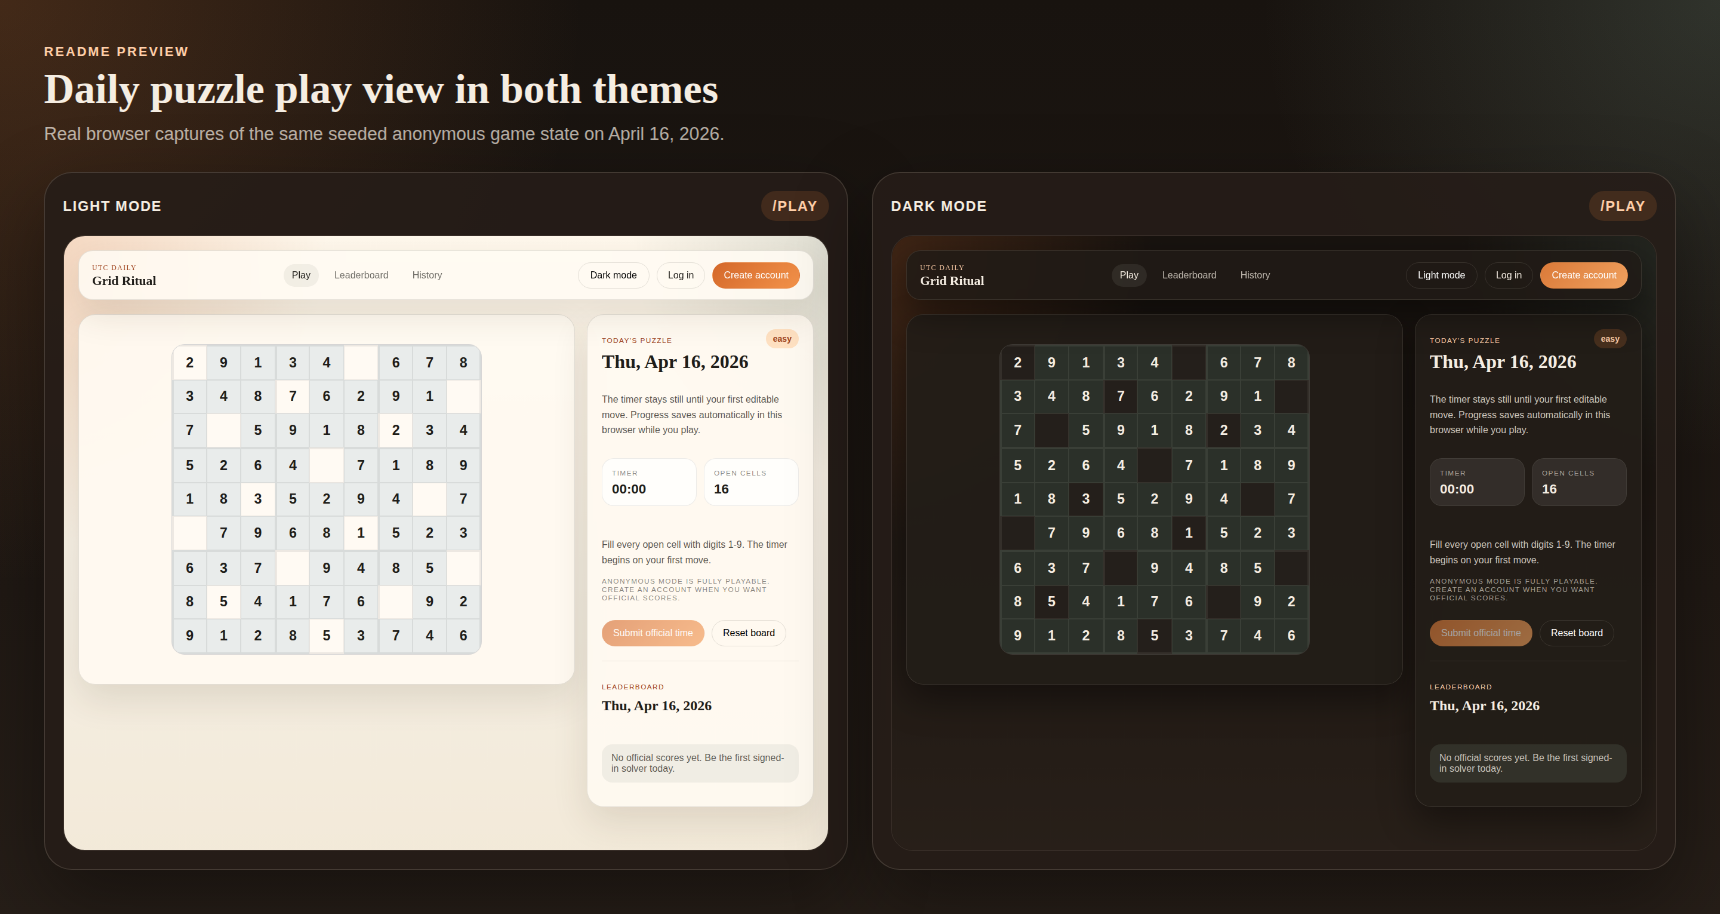
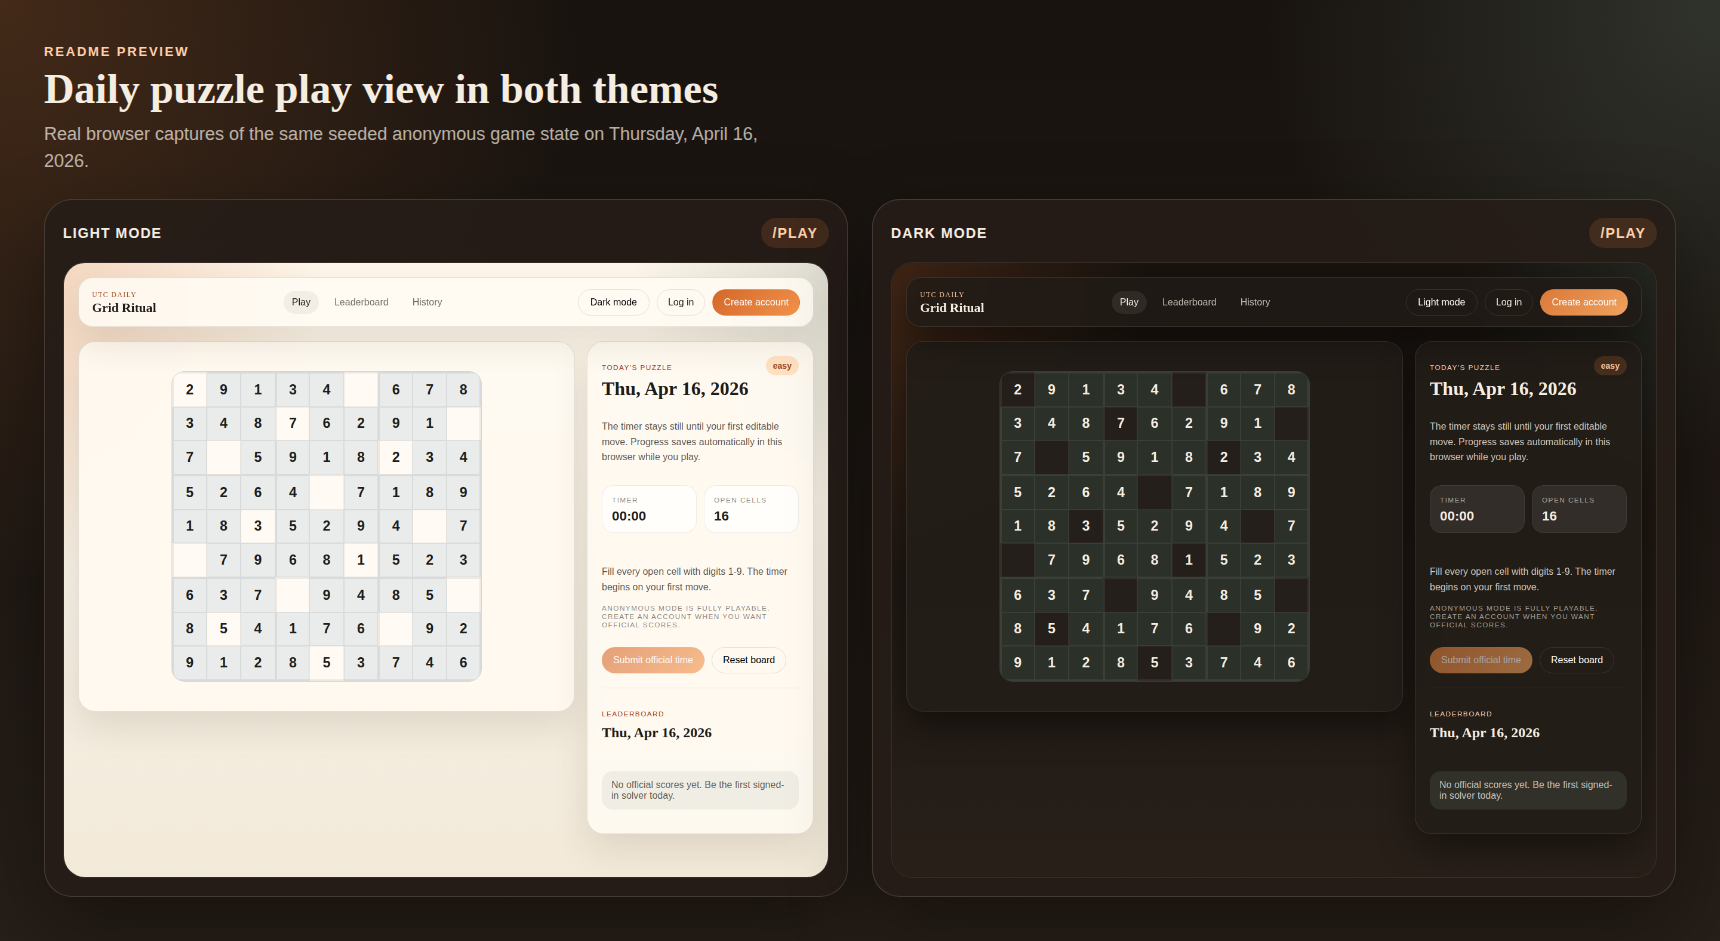
feat: update README screenshot capture script to include dynamic puzzle data and improve progress board handling

diff --git a/scripts/capture-readme-screenshots.ts b/scripts/capture-readme-screenshots.ts
@@ -12,12 +12,8 @@ const npxCommand = process.platform === 'win32' ? 'npx.cmd' : 'npx';
 
 const screenshotDatabaseUrl =
   'postgresql://daily_sudoku:daily_sudoku@127.0.0.1:5433/daily_sudoku?schema=readme_screenshots';
-const fixedUtcDate = '2026-04-16';
+const defaultFixedUtcDate = '2026-04-16';
 const themeStorageKey = 'daily-sudoku/theme';
-const givens = '091340678348062910705918034526407189180529407079680523637094850804176092912803746';
-const solution =
-  '291345678348762915765918234526437189183529467479681523637294851854176392912853746';
-const progressBoard = fillProgressBoard(givens, solution, [0, 12, 24, 38, 50, 64, 76]);
 
 const outputDirectory = path.join(process.cwd(), 'docs/images/readme');
 const playCompareOutputPath = path.join(outputDirectory, 'play-compare.png');
@@ -26,6 +22,7 @@ const landingOutputPath = path.join(outputDirectory, 'landing-light.png');
 async function main(): Promise<void> {
   const children: ChildProcess[] = [];
   const host = process.env.PLAYWRIGHT_HOST ?? '127.0.0.1';
+  const effectiveFixedUtcDate = resolveFixedUtcDate(process.env.FIXED_UTC_DATE);
   const apiPort = await resolvePort(process.env.PLAYWRIGHT_API_PORT, 4000, host);
   const webPort = await resolvePort(
     process.env.PLAYWRIGHT_WEB_PORT,
@@ -46,7 +43,7 @@ async function main(): Promise<void> {
     SESSION_SECRET: process.env.SESSION_SECRET ?? 'readme-screenshot-session-secret-1234',
     SESSION_TTL_DAYS: process.env.SESSION_TTL_DAYS ?? '30',
     RATE_LIMIT_MAX: process.env.RATE_LIMIT_MAX ?? '200',
-    FIXED_UTC_DATE: process.env.FIXED_UTC_DATE ?? fixedUtcDate,
+    FIXED_UTC_DATE: effectiveFixedUtcDate,
     NODE_ENV: 'test',
   };
   const webEnv = {
@@ -70,16 +67,31 @@ async function main(): Promise<void> {
 
     await mkdir(outputDirectory, { recursive: true });
 
+    const puzzle = await loadReadmeCapturePuzzle(effectiveFixedUtcDate);
+    const progressBoard = buildReadmeProgressBoard(puzzle.givens, puzzle.solution);
     const browser = await chromium.launch({ headless: true });
 
     try {
-      const lightPlayCapture = await capturePlayRoute(browser, webBaseUrl, 'light');
-      const darkPlayCapture = await capturePlayRoute(browser, webBaseUrl, 'dark');
+      const lightPlayCapture = await capturePlayRoute(
+        browser,
+        webBaseUrl,
+        'light',
+        puzzle.puzzleDate,
+        progressBoard,
+      );
+      const darkPlayCapture = await capturePlayRoute(
+        browser,
+        webBaseUrl,
+        'dark',
+        puzzle.puzzleDate,
+        progressBoard,
+      );
       const landingCapture = await captureLandingRoute(browser, webBaseUrl);
       const compareCapture = await buildPlayCompareImage(
         browser,
         lightPlayCapture,
         darkPlayCapture,
+        formatFixedUtcDateLabel(puzzle.puzzleDate),
       );
 
       await writeFile(playCompareOutputPath, compareCapture);
@@ -102,6 +114,12 @@ async function main(): Promise<void> {
     }
   }
 }
+
+type ReadmeCapturePuzzle = {
+  puzzleDate: string;
+  givens: string;
+  solution: string;
+};
 
 async function prepareStack(
   apiEnv: NodeJS.ProcessEnv,
@@ -157,6 +175,8 @@ async function capturePlayRoute(
   browser: Browser,
   webBaseUrl: string,
   theme: 'light' | 'dark',
+  puzzleDate: string,
+  progressBoard: string,
 ): Promise<Buffer> {
   return withCapturePage(browser, {
     route: '/play',
@@ -164,8 +184,8 @@ async function capturePlayRoute(
     webBaseUrl,
     initStorage: {
       [themeStorageKey]: theme,
-      [`daily-sudoku/progress/${fixedUtcDate}`]: JSON.stringify({
-        puzzleDate: fixedUtcDate,
+      [`daily-sudoku/progress/${puzzleDate}`]: JSON.stringify({
+        puzzleDate,
         board: progressBoard,
       }),
     },
@@ -236,6 +256,7 @@ async function buildPlayCompareImage(
   browser: Browser,
   lightPlayCapture: Buffer,
   darkPlayCapture: Buffer,
+  fixedUtcDateLabel: string,
 ): Promise<Buffer> {
   const context = await browser.newContext({
     deviceScaleFactor: 1,
@@ -360,7 +381,7 @@ async function buildPlayCompareImage(
                 <p class="eyebrow">README Preview</p>
                 <h1>Daily puzzle play view in both themes</h1>
                 <p class="supporting">
-                  Real browser captures of the same seeded anonymous game state on April 16, 2026.
+                  Real browser captures of the same seeded anonymous game state on ${fixedUtcDateLabel}.
                 </p>
               </header>
               <section class="compare-grid">
@@ -392,6 +413,24 @@ async function buildPlayCompareImage(
   }
 }
 
+function buildReadmeProgressBoard(givens: string, solution: string): string {
+  const preferredIndexes = [0, 12, 24, 38, 50, 64, 76];
+  const editableIndexes = [...givens].flatMap((value, index) => (value === '0' ? [index] : []));
+  const indexesToFill = preferredIndexes.filter((index) => givens[index] === '0');
+
+  for (const index of editableIndexes) {
+    if (indexesToFill.length >= preferredIndexes.length) {
+      break;
+    }
+
+    if (!indexesToFill.includes(index)) {
+      indexesToFill.push(index);
+    }
+  }
+
+  return fillProgressBoard(givens, solution, indexesToFill);
+}
+
 function fillProgressBoard(baseBoard: string, solvedBoard: string, indexes: number[]): string {
   return baseBoard
     .split('')
@@ -403,6 +442,33 @@ function fillProgressBoard(baseBoard: string, solvedBoard: string, indexes: numb
       return solvedBoard[index] ?? value;
     })
     .join('');
+}
+
+function resolveFixedUtcDate(input: string | undefined): string {
+  const normalizedInput = input?.trim();
+
+  return normalizedInput ? normalizedInput : defaultFixedUtcDate;
+}
+
+async function loadReadmeCapturePuzzle(puzzleDate: string): Promise<ReadmeCapturePuzzle> {
+  const { getPuzzleForUtcDate } = await import('@daily-sudoku/puzzles');
+  const puzzle = getPuzzleForUtcDate(puzzleDate);
+
+  return {
+    puzzleDate: puzzle.puzzleDate,
+    givens: puzzle.givens,
+    solution: puzzle.solution,
+  };
+}
+
+function formatFixedUtcDateLabel(utcDate: string): string {
+  return new Date(`${utcDate}T00:00:00.000Z`).toLocaleDateString('en-US', {
+    weekday: 'long',
+    month: 'long',
+    day: 'numeric',
+    year: 'numeric',
+    timeZone: 'UTC',
+  });
 }
 
 function toDataUrl(buffer: Buffer): string {
